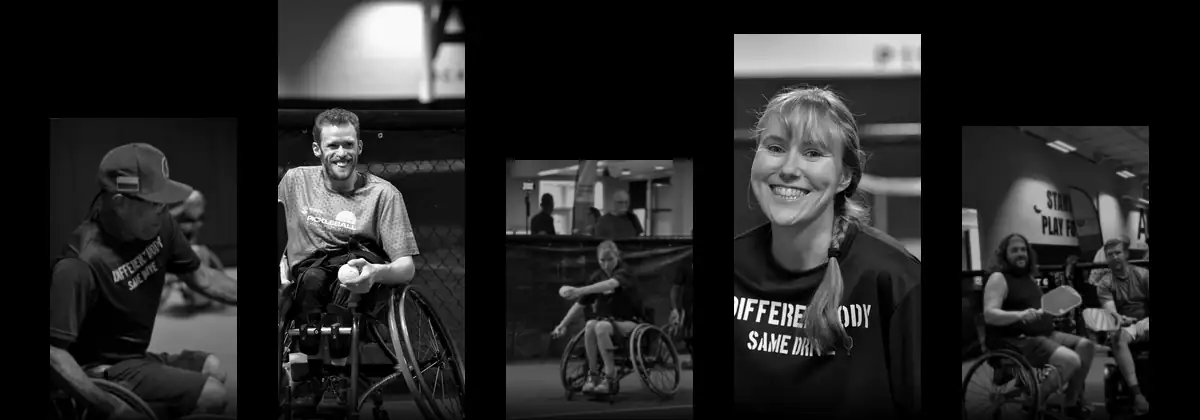
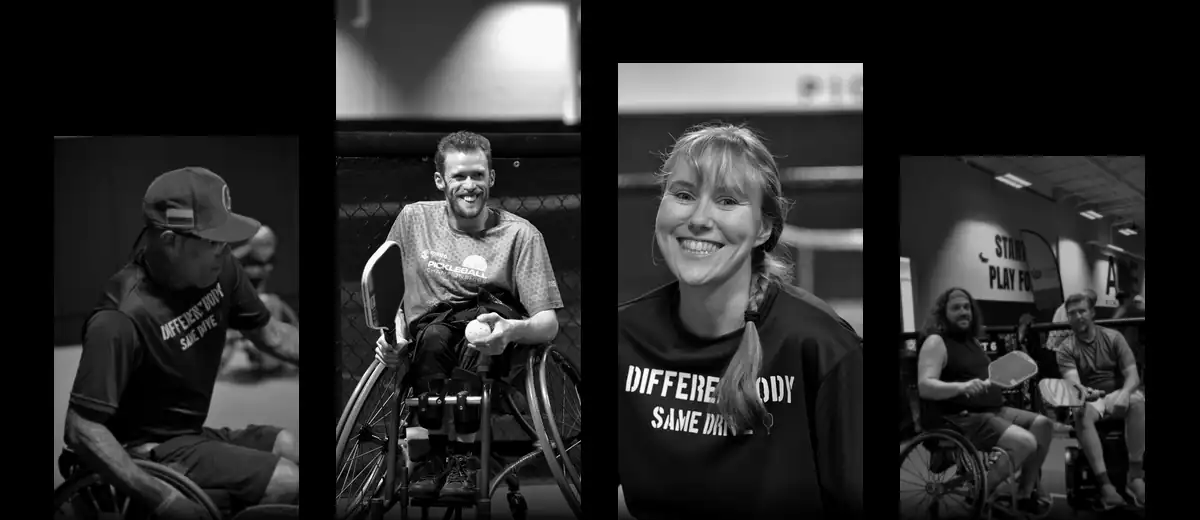
The band frames were cropped off-centre, which is what "squished" was
Alec raised this three times and I kept explaining instead of proving it.
Proving it settled it, and he was right.

There is no geometric distortion and there has not been since the stretch
bug: verified end to end this time — the source crop, the column in the
composed asset, and the rendered strip all agree to 0.001. So the shape of
every face is correct.

What was wrong is WHERE the crop was taken. Every photograph was cropped
at ax=0.50 on the assumption the athlete is centred in frame. A human
matte over the five says otherwise:

    JLA_5884  0.392     JLA_6071  0.381     JLA_5904  0.544
    JLA_6105  0.486     JLA_6123  0.615

Four of five are off-centre by up to twelve points, so a narrow frame cut
into the person rather than around them — and a face cut into at the sides
reads as squeezed no matter what the arithmetic says. The anchors are now
measured from those mattes, and ay comes from where each subject's head
actually starts rather than from a constant.

Also, both of the other things he asked for, which were the same problem
from the other side: FEWER and TALLER. Four frames on desktop and two on a
phone at 0.5-0.7 aspect — real portrait proportions instead of slices —
and the strip grew from 1200x420 to 1200x520 (624px of a 648px hero) and
on a phone from 257px to 349px, with the padding above the type cut back.
Most of the black he did not like was the band being too short for its box.

Contrast probe green on every line. Main banner still untouched.
472/472.

diff --git a/public/css/page-header.css b/public/css/page-header.css
@@ -29,8 +29,8 @@
   isolation:isolate;
   overflow:hidden;
   background:#000;
-  padding-top:clamp(7rem, 15vh, 10rem);
-  padding-bottom:clamp(11rem, 26vh, 17rem);
+  padding-top:clamp(6rem, 13vh, 8.5rem);
+  padding-bottom:clamp(12rem, 30vh, 19rem);
 }
 
 /* ONE pre-composed strip, not eight <img> columns.
@@ -49,7 +49,7 @@
      strip the asset's own aspect means `cover` is an exact fit at every width
      and the whole band is always visible; what changes with the page is how
      much black sits above it, which is where the type goes anyway. */
-  aspect-ratio:1200/420;
+  aspect-ratio:1200/520;
   background:url('/images/hero/panels/pg-band-wide.webp') center bottom/cover no-repeat;
 }
 
@@ -112,15 +112,17 @@
      match, and the hero grows so there is real room for the band rather than a
      sliver behind a paragraph. */
   .hero.pg-band{
-    padding-top:clamp(5.5rem, 13vh, 7.5rem);
-    /* clear the strip. It is 760/500 of the viewport width — 257px at 390 — so
-       anything under that lands the last line of copy on a frame's top edge. */
-    padding-bottom:clamp(18rem, 72vw, 24rem);
+    /* Less black. Alec: "I want the vertical layout to be taller, I don't like
+       all the black space." The strip is 760/680 of the viewport width now —
+       349px at 390 rather than 257 — and the padding above the type comes down
+       so the dead band between the nav and the eyebrow goes with it. */
+    padding-top:clamp(4rem, 10vh, 5.5rem);
+    padding-bottom:clamp(23rem, 92vw, 28rem);
   }
   .hero.pg-band > .wrap > *{ max-width:none; }
   .hero.pg-band > .wrap::before{ left:-14%; right:-14%; top:-7%; bottom:-9%;
     background:rgba(0,0,0,0.88); }
-  .hero.pg-band::before{ aspect-ratio:760/500;
+  .hero.pg-band::before{ aspect-ratio:760/680;
     background-image:url('/images/hero/panels/pg-band-tall.webp'); }
   .hero.pg-band::after{
     background:

diff --git a/scripts/build-hero-panels.py b/scripts/build-hero-panels.py
@@ -180,50 +180,53 @@ def compose_band():
     compresses to a fraction of its parts.
     """
     import numpy as np
-    # Alec: "use less vertical frames besides squishing them, especially for
-    # mobile ... also use different pictures than the main banner."
+    # Alec, three times: "the pictures still look squeezed and squished."
     #
-    # FEWER, WIDER FRAMES. Nothing here was ever geometrically distorted — each
-    # column is cropped at exactly the aspect of the box it goes into — but a
-    # 0.30-aspect box is a vertical SLICE of a person, and a slice of a face
-    # reads as squished whether or not the arithmetic says otherwise. Eight
-    # columns on a phone is four too many. Five on desktop and three on a phone
-    # gives every frame something like portrait proportions, which is what makes
-    # a face look like a face.
+    # He was right and the reason was not distortion. Every column has been
+    # cropped at exactly the aspect of its box since the stretch bug, and the
+    # rendered strip matches the asset to 0.001 — checked end to end. What was
+    # wrong is WHERE the crop was taken: ax=0.50 for every photograph, on the
+    # assumption the athlete is centred. Run a human matte over these five and
+    # they are not:
     #
-    # DIFFERENT PHOTOGRAPHS. The homepage mosaic uses 19 of the 25 favourites;
-    # these are five of the six it does not touch, so the interior pages are not
-    # a rerun of the front page.
-    COLS = [  # source, height share, back row
-        ("JLA_5884.jpg", 0.72, True),   # reaching low for a dig
-        ("JLA_6071.jpg", 1.00, False),  # grinning, whole chair
-        ("JLA_5904.jpg", 0.62, True),   # rally, wide
-        ("JLA_6105.jpg", 0.92, False),  # laughing between points
-        ("JLA_6123.jpg", 0.70, True),   # two at the net
+    #     JLA_5884  subject centre 0.392      JLA_6071  0.381
+    #     JLA_5904  0.544                     JLA_6105  0.486
+    #     JLA_6123  0.615
+    #
+    # So a narrow frame cut into four of the five, which is exactly what
+    # "squeezed" looks like. The anchors below are measured from those mattes,
+    # not guessed, and ay is set from where each subject's head actually starts.
+    #
+    # Also: FEWER and TALLER. Four frames on desktop and two on a phone, each
+    # around 0.5-0.7 aspect — real portrait proportions — and the band is tall
+    # enough to fill most of the hero, because the black around it was the other
+    # half of the complaint.
+    COLS = [  # source, height share, back row, ax, ay  (ax/ay from the matte)
+        ("JLA_5884.jpg", 0.74, True,  0.39, 0.20),  # reaching low for a dig
+        ("JLA_6071.jpg", 1.00, False, 0.38, 0.33),  # grinning, whole chair
+        ("JLA_6105.jpg", 0.88, False, 0.49, 0.23),  # laughing between points
+        ("JLA_6123.jpg", 0.70, True,  0.62, 0.42),  # two at the net
     ]
-    for name, W, H, n, pitch, cwf in (("pg-band-wide", 1200, 420, 5, 0.190, 0.156),
-                                      ("pg-band-tall", 760, 500, 3, 0.325, 0.300)):
+    for name, W, H, n, pitch, cwf in (("pg-band-wide", 1200, 520, 4, 0.235, 0.205),
+                                      ("pg-band-tall", 760, 680, 2, 0.460, 0.440)):
         canvas = Image.new("RGB", (W, H), (0, 0, 0))
-        use = COLS if n == 5 else [COLS[1], COLS[3], COLS[0]]
-        for i, (src, h, dim) in enumerate(use):
+        use = COLS if n == 4 else [COLS[1], COLS[2]]
+        for i, (src, h, dim, ax, ay) in enumerate(use):
             im = Image.open(os.path.join(SRC, src))
             im.draft("RGB", (im.width // 3, im.height // 3))
             cw, ch = int(W * cwf), int(H * h)
-            # Crop at the EXACT aspect of the box it goes into. Cropping at a
-            # fixed ratio and resizing into a differently-shaped box stretches
-            # the image, which is a real distortion and was one once.
-            im = crop_to(im.convert("RGB"), cw / ch, 0.36, 0.50, 0.86)
+            im = crop_to(im.convert("RGB"), cw / ch, ay, ax, 0.88)
             assert abs((im.width / im.height) - (cw / ch)) < 0.02, \
                 f"{src}: cropped {im.width}x{im.height} for a {cw}x{ch} box"
             im = mono(im.resize((cw, ch), Image.LANCZOS))
-            im = ImageEnhance.Brightness(im).enhance(0.70 if dim else 0.98)
+            im = ImageEnhance.Brightness(im).enhance(0.72 if dim else 0.98)
             if dim:
                 im = im.filter(ImageFilter.GaussianBlur(0.7))
             x = int(W * (0.5 * (1 - n * pitch) + i * pitch + (pitch - cwf) / 2))
             canvas.paste(im, (x, H - ch))
         a = np.asarray(canvas, np.float32) / 255.0
         y = np.linspace(0, 1, H)[:, None, None]
-        a *= np.clip(1.0 - np.maximum(0, (y - 0.90) / 0.10) * 0.85, 0, 1)
+        a *= np.clip(1.0 - np.maximum(0, (y - 0.92) / 0.08) * 0.85, 0, 1)
         canvas = Image.fromarray((a * 255).astype(np.uint8))
         out = os.path.join(DST, f"{name}.webp")
         canvas.save(out, "WEBP", quality=58, method=6)
